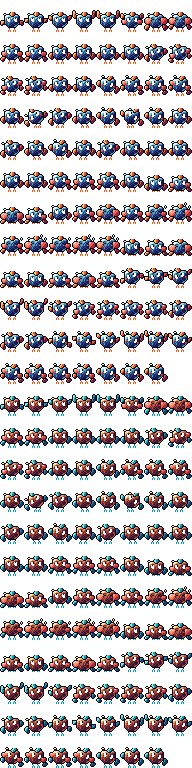
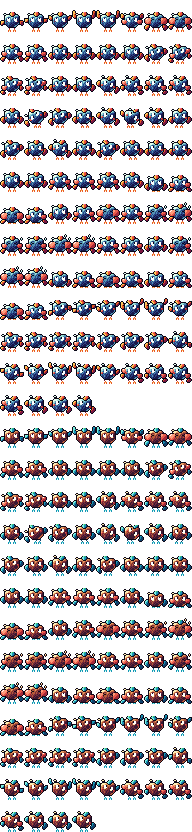
Keep the last gum bubble on screen and bob it when the first one pops
The pop2 clip (2 balloons to 1) used the strain and burst poses, and the gum sheet importer hides the bubble sprite on every strain or burst frame, so the bubble that was left vanished for the 8 ticks of the clip while the bird stayed drawn. Every consumer reads the same gum_show table through gum_view_offset (player bubble, computer bubbles, leak jet), so all modes showed it.

pop2 now keeps the bubble (gum_show 1) and adds a per-frame bob to gum_dy (GUM_BOB in the importer): pushed in 5 px, rebound 2 px above rest, settle. The clip grows from 2 to 7 frames (17 ticks) with existing poses, so the sheet has 100 frames. Position bob only, no new art. Host test checks the pop2 frames never hide the bubble and that the bob goes down and back past rest.

diff --git a/thoughts/shared/drafts/2026-11-17-pop2-bob/index.html b/thoughts/shared/drafts/2026-11-17-pop2-bob/index.html
@@ -1,0 +1,7 @@
+<!doctype html><meta charset="utf-8"><title>pop2 bob</title>
+<style>body{background:#1b2430;color:#e8edf2;font:16px/1.5 system-ui,sans-serif;margin:32px}img{image-rendering:pixelated;border:1px solid #3a4a5c;margin:4px 16px 4px 0}h2{font-size:18px;margin-top:28px}</style>
+<h1>Bubble pop 2 to 1: bob instead of vanish</h1>
+<p>Mock-up composed from the sheet art and the bob table (not an emulator capture; bubble column and draw order are approximate). Slow motion: 3 times slower than the game. The 20 frame protection blink after a pop is not shown.</p>
+<h2>Before: the bubble is gone for 8 frames</h2><img src="before.gif">
+<h2>After: the bubble stays, is pushed in 5 pixels, rebounds 2 above rest, settles (17 frames)</h2><img src="after.gif">
+<h2>After, frame by frame (bubble offset in pixels, down is positive: 2, 4, 5, 3, 0, -2, -1)</h2><img src="strip.png">

diff --git a/tools/import_gum_mouth_sheet.py b/tools/import_gum_mouth_sheet.py
@@ -42,12 +42,16 @@ CLIPS = [  # (name, loop, [(frame, ticks)])
     ("pump", 0, [("stand_in", 6), ("stand_puff", 4), ("stand_blast", 5), ("stand_puff", 5)]),
     ("inflate", 0, [("in", 4), ("puff", 4), ("blast", 4), ("puff", 4)]),
     ("fall", 1, [("strain", 6), ("burst", 6)]),
-    ("pop2", 0, [("strain", 4), ("burst", 4)]),
+    ("pop2", 0, [("strain", 2), ("strain", 2), ("burst", 3), ("burst", 2), ("puff", 2), ("puff", 3), ("rest", 3)]),
     ("pop1", 0, [("strain", 4), ("burst", 4), ("burst", 6)]),
     ("walk", 1, [("stand_in", 6), ("stand_puff", 6)]),
     ("land", 0, [("stand_blast", 4), ("stand_puff", 4)]),
     ("breathe", 1, [("stand_in", 6), ("stand_puff", 4), ("stand_blast", 5), ("stand_puff", 4)]),
 ]
+# pop2 (2 balloons -> 1): the bubble that is left stays on the beak and bobs as if pushed in. Rows added to gum_dy per clip
+# frame (down is positive): driven in fast, rebounds past rest, settles (a damped spring; the fly clip that follows is 0).
+GUM_BOB = {"pop2": [2, 4, 5, 3, 0, -2, -1]}
+assert all(len(b) == len(fr) for c, _, fr in CLIPS for b in [GUM_BOB.get(c)] if b)
 # The flap clip on a swung body (flier_view.c shows these while the sway under a wingbeat is right / left): same frame
 # count and ticks as flap, frame for frame.
 SWAY_FLAP = {"f1": "%s_f1", "f2": "%s_f2", "f3": "%s_f3", "f4": "%s_f4", "d1": "%s_f3", "d2": "%sp", "blast": "%sp", "puff": "%sp", "rest": "%s"}
@@ -76,6 +80,8 @@ def main():
     rows, grip = load_frames()
     pals = json.load(open(os.path.join(SRC, "palettes.json")))
     seq = [(n, t) for _, _, fr in CLIPS for n, t in fr]
+    bob = [d for c, _, fr in CLIPS for d in GUM_BOB.get(c, [0] * len(fr))]   # per sheet frame
+    keep = [c in GUM_BOB for c, _, fr in CLIPS for _ in fr]                  # a bobbing clip keeps its bubble
     cols = 8
     srows = -(-len(seq) // cols)
     img = Image.new("P", (cols * W, srows * H), 0)
@@ -96,8 +102,8 @@ def main():
                 if c != ".":
                     px[ox + x, oy + y + shift] = CH.index(c) + 1
         gum_dx.append(grip[name] - GRIP_COL)
-        gum_dy.append(shift - hang_shift)
-        gum_show.append(0 if name in ("strain", "burst") else 1)   # the gum is gone in the pop poses
+        gum_dy.append(shift - hang_shift + bob[n])
+        gum_show.append(0 if name in ("strain", "burst") and not keep[n] else 1)   # the gum is gone in the pop poses, except pop2
         sway.append(SWAY.get(name.split("_")[0], 0))   # R1_f1 .. L1_f4 are swung like R1 / L1
     img.save(os.path.join(OUT, "sheet.png"))
     anims, first = [], 0

diff --git a/tests/host/test_gum_view.c b/tests/host/test_gum_view.c
@@ -79,6 +79,16 @@ int main(void)
             if (!o.show) hidden++;
         }
         check(hidden > 0 && hidden < GUM_VIEW_BIRD_FRAMES, "some frames hide the bubble, most show it", hidden, 1);
+        {   /* 2 balloons to 1 (pop2): the bubble that is left never hides, and it bobs down (pushed in) and back past rest */
+            static const uint8_t cf[] = SOOTLING_TABLE_CLIP_FIRST, cc[] = SOOTLING_TABLE_CLIP_COUNT;
+            int lo = 0, hi = 0;
+            for (k = cf[SOOTLING_CLIP_POP2]; k < cf[SOOTLING_CLIP_POP2] + cc[SOOTLING_CLIP_POP2]; k++) {
+                check(gsh[k] == 1, "pop2 frame shows the bubble", k, 1);
+                if (gdy[k] > hi) hi = gdy[k];
+                if (gdy[k] < lo) lo = gdy[k];
+            }
+            check(hi >= 3 && lo < 0, "pop2 bob: pushed in, then a rebound", hi, lo);
+        }
     }
     /* Out of range is bounds safe: no bubble, no offset. */
     for (k = GUM_VIEW_BIRD_FRAMES; k < 256; k++) {

diff --git a/src/core/gum_view.c b/src/core/gum_view.c
@@ -40,7 +40,8 @@ int gum_view_pop_done(uint32_t t) { return t >= (uint32_t)GUM_VIEW_POP_SHEET * G
 
 /* Per bird frame (the player animation of the Sootling sheet), from tools/import_gum_mouth_sheet.py through the build:
  * gum_dx = grip column - sprite centre column, gum_dy = rows the frame was shifted down to its feet relative to the hanging
- * poses (so the bubble keeps its place on the beak), gum_show = 0 in the pop poses (strain, burst), where the gum is gone. */
+ * poses (so the bubble keeps its place on the beak), gum_show = 0 in the pop poses (strain, burst), where the gum is gone;
+ * the pop2 clip (2 balloons to 1) keeps the bubble and adds a pushed-in bob to gum_dy (GUM_BOB in the importer). */
 static const int8_t k_gum_dx[GUM_VIEW_BIRD_FRAMES] = SOOTLING_TABLE_GUM_DX;
 static const int8_t k_gum_dy[GUM_VIEW_BIRD_FRAMES] = SOOTLING_TABLE_GUM_DY;
 static const uint8_t k_gum_show[GUM_VIEW_BIRD_FRAMES] = SOOTLING_TABLE_GUM_SHOW;

diff --git a/tests/host/test_flier_view.c b/tests/host/test_flier_view.c
@@ -286,8 +286,8 @@ int main(void)
     int flip, i, t;
     uint8_t fr;
 
-    /* sheet facts: the gum-mouth v4 sheet (14 clips, 95 frames: 12 clips plus flap_r / flap_l) replaced the 105 frame sootling sheet */
-    check(SOOTLING_FRAMES == 95, "frame count", SOOTLING_FRAMES, 95);
+    /* sheet facts: the gum-mouth v4 sheet (14 clips, 100 frames: 12 clips plus flap_r / flap_l; pop2 has 7 frames for the bubble bob) replaced the 105 frame sootling sheet */
+    check(SOOTLING_FRAMES == 100, "frame count", SOOTLING_FRAMES, 100);
     check(SOOTLING_CLIP_COUNT == 14, "clip count", SOOTLING_CLIP_COUNT, 14);
     /* the pipeline pads art to whole 16 px tiles: 24 px art is still 2 strips (src/vram_layout.h SOOT_COLUMNS) */
     check(SOOTLING_ART_W == 24 && SOOTLING_ART_H == 32, "art size", SOOTLING_ART_W, 24);

diff --git a/src/core/gum_view.h b/src/core/gum_view.h
@@ -14,7 +14,7 @@
 #define GUM_VIEW_LEVELS 16
 #define GUM_VIEW_WOBBLE_SHEET 6  /* sheet frames of a wobble loop (assets/gum/gum_sheet.json) */
 #define GUM_VIEW_POP_SHEET    7  /* sheet frames of a pop */
-#define GUM_VIEW_BIRD_FRAMES  95 /* frames of the player animation (sootling_anims[PLAYER]); gum_view.c and src/gum.c assert it */
+#define GUM_VIEW_BIRD_FRAMES  100 /* frames of the player animation (sootling_anims[PLAYER]); gum_view.c and src/gum.c assert it */
 
 typedef enum { GUM_SIZE_TINY, GUM_SIZE_SMALL, GUM_SIZE_MEDIUM, GUM_SIZE_LARGE } GumSize;
 typedef enum { GUM_POP_LARGE, GUM_POP_SMALL } GumPop;

diff --git a/RULES.md b/RULES.md
@@ -10,7 +10,7 @@ Run from the repo root. Use `gmake` (system make is 3.81). First build writes co
 - Build: `make`  (romset in build/rom/, zip build/gumbirds.zip)
 - Run in MAME (window, MVS, hiscores in nvram/): `make run`  (MAME has no window-title option. Exemption from the window-title rule, user decision 2026-11-09: a session that starts a MAME window says in chat which window it is and what for. Headless test runs have no window.) MAME shows "one or more ROMs ... incorrect" at boot: expected, the BIOS is ngdevkit nullbios and its checksums are fixed inside MAME. Press any key. make run boots UniBIOS 4.0 from UNIBIOS (default bios/uni-bios-40.zip in the project dir, git-ignored by `*.zip` and never committed, user decision 2026-11-11; else ~/Downloads/uni-bios-40.zip; falls back to nullbios if missing). make test uses nullbios, except test-reach, which runs on UniBIOS 4.0 (REACH_BIOS_FLAGS): stock nullbios writes backup RAM without REG_SRAMUNLOCK, so no high score saves under it (found 2026-11-09). Headless test MAME runs also need `SDL_VIDEODRIVER=dummy -video none -sound none` (user report 2026-11-09: test runs opened MAME windows). sfix/sm1 still come from nullbios, so the warning stays. User decisions 2026-11-09. Window uses bgfx with CRT shader crt-geom-deluxe (user pick 2026-11-09) and no bilinear filter; switch with `make run MAME_SHADER=crt-geom` (or `unfiltered`, `lcd-grid`, `hlsl`). User report 2026-11-09: image was blurry. Headless test MAME runs use `-window -nomaximize -video none`: on macOS `-video none` alone opens a black fullscreen window over the desktop (user report 2026-11-09). Every hand-run MAME command adds `-window -nomaximize`.
 - Test: `make test` = tests/host/run.sh, then headless MAME Lua check (tests/mame/boot_check.lua, ~40 s): frame counter g_frame_counter advances, flow leaves ATTRACT after coin + start, BIOS_USER_MODE is 2 while PLAYING, a second coin mid-play keeps the counter monotonic and the state PLAYING; then tests/mame/check_hero_pixels.py (python3.14 -I, Pillow; arg order hero obs city pre play) checks hero-only palette colours in the flier screen box in the MAME snapshots (none before start). Arena: `make test` runs host tests, test-flier, test-reach, test-vblank, test-scroll, test-sound, then the boot check (laser, hit and obstacle checks were retired with the runner, 2026-11-10); the hero pixel box sits on the middle island at the flier spawn (player and computer fliers draw the Sootling sprite: palette 0 player, palette 1 computer; frame choice src/core/flier_view.c; flier_check.lua asserts Sootling tiles via g_soot_range; check_hero_pixels.py min 100 player-only pixels, attract shows the demo flier so pre-start is unbounded).
-- Flier art: assets/flier/sootling_sheet.png (+ .json), built by tools/sprite_pipeline.py (run by make). Art is the gum-mouth v4 bird: 95 frames of 24x32 in 14 clips (flap, fly, settle, idle, pump, inflate, fall, pop2, pop1, walk, land, breathe, flap_r, flap_l; the last two are the flap on a body swung right / left, shown while a wingbeat runs over the sway), hit box columns 10..13, from assets/flier/gum_mouth/ via tools/import_gum_mouth_sheet.py then tools/import_flier_sheet.py (palettes: player, cpu, p2, distress1..3). Swap art with `python3.14 -I tools/import_flier_sheet.py <draft>/frames.json` then `gmake`. Clip tables and frame ticks are generated into build/gen/sootling_tables.h (used by src/main.c, tests/host/test_flier_view.c and tests/mame/camera_probe.c); no timing or size number is hand-copied into C or Lua.
+- Flier art: assets/flier/sootling_sheet.png (+ .json), built by tools/sprite_pipeline.py (run by make). Art is the gum-mouth v4 bird: 100 frames of 24x32 in 14 clips (flap, fly, settle, idle, pump, inflate, fall, pop2, pop1, walk, land, breathe, flap_r, flap_l; the last two are the flap on a body swung right / left, shown while a wingbeat runs over the sway), hit box columns 10..13, from assets/flier/gum_mouth/ via tools/import_gum_mouth_sheet.py then tools/import_flier_sheet.py (palettes: player, cpu, p2, distress1..3). Swap art with `python3.14 -I tools/import_flier_sheet.py <draft>/frames.json` then `gmake`. Clip tables and frame ticks are generated into build/gen/sootling_tables.h (used by src/main.c, tests/host/test_flier_view.c and tests/mame/camera_probe.c); no timing or size number is hand-copied into C or Lua.
 - Sprites: obstacles use tools/sprite_pipeline.py (wrapper tools/build_obstacle_sprites.py, run by make; the runner-era hero sprite set was removed 2026-11-10). Obstacle art is redrawn by `python3.14 -I tools/draw_obstacle_sheet.py` (writes assets/obstacles/). City background: tools/build_city_sprites.py (run by make) from assets/city/ (redraw with `python3.14 -I assets/city/draw_city.py`); tests/mame/check_bg_pixels.py checks backdrop, layer bands, measured scroll against g_bg_scroll_px and the g_bg_column_writes sentinel (snapshots bg_a.png frame 420, playing.png frame 450). Sprite slot map: src/sprite_slots.h; VRAM tile map: src/vram_layout.h. Snapshots are copied to build/test-snap/. Scratch dirs build/test-run.*
 - Flier: `make test-flier` (also run by `make test`, ~40 s): tests/mame/flier_check.lua (layout from tests/mame/flier_probe.c) drives coin, start, flaps with A, steers off the island with left/right and drowns; sentinel Game.flier_steps must track the PLAYING frames (src/core/game.c game_step_arena). Removed with the runner (user decision 2026-11-10): test-laser, test-hit, check_obstacle_pixels.py; no jump, duck, laser or obstacles in play. Attract demo hovers and sweeps (src/core/flow.c demo_input; knobs DEMO_HOVER_Y, DEMO_SWEEP_FRAMES).
 - Solid platforms: `make test-solid` (also run by `make test`): tests/mame/solid_check.lua (layouts from flier_probe.c and solid_probe.c, platform table read from the ROM `stage_platforms`) puts the hero under island 5 and holds flap, then beside island 2 and holds Right; the hero box never overlaps the solid box, vy or vx flips, `g_flier_solid_hits` rises. Island bodies are STAGE_PLATFORM_H (12) deep and bounce a flier (flier_collide_solids, game.c arena_flier_step); the floor line stays the landing rule. Trip islands use TRIP_ISLAND_SOLID_H.
